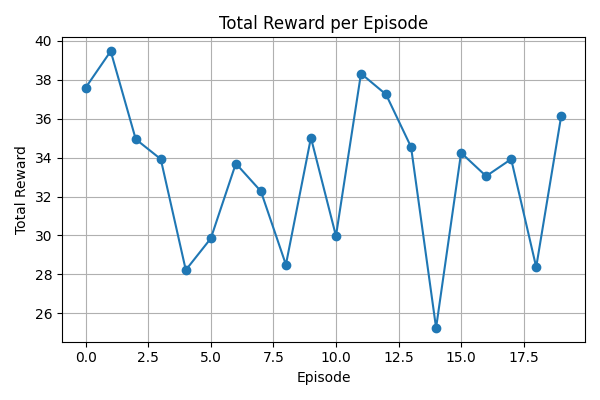
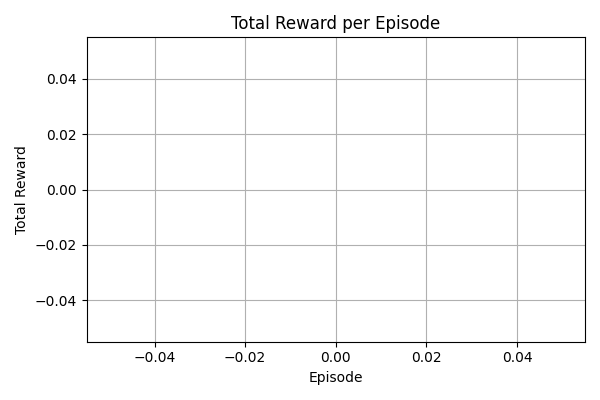
优化交付时间估算逻辑，调整最大时间步数和动态作业到达概率

diff --git a/claude_code/environment.py b/claude_code/environment.py
@@ -30,6 +30,7 @@ class WarehouseEnvironment:
         self.completed_jobs = []
         # 加工完成且配送完成的作业列表
         self.dispatched_jobs = []
+        self.next_job_id = len(case.jobs)  # 初始工件数
         
         # 初始化机器和配送商
         self.machines = []
@@ -186,7 +187,7 @@ class WarehouseEnvironment:
             return  # 第一个时间步不生成动态作业
         
         # 随机决定是否有作业到达
-        arrival_probability = getattr(self.config, 'batch_arrival_probability', 0.15)  # 每个时间步15%概率到达
+        arrival_probability = getattr(self.config, 'batch_arrival_probability', 0.75)  # 每个时间步75%概率到达
         
         if np.random.random() < arrival_probability:
             # 随机决定本次到达的作业数量
@@ -203,11 +204,8 @@ class WarehouseEnvironment:
                 arrived_jobs = []
                 for i in range(batch_size):
                     if self.remaining_dynamic_jobs > 0:
-                        # 生成新的动态作业ID（避免与现有作业重复）
-                        total_existing_jobs = (len(self.available_jobs) + 
-                                            len(self.completed_jobs) + 
-                                            len(self.dispatched_jobs))
-                        new_job_id = total_existing_jobs + i
+                    
+                        new_job_id = self.next_job_id
                         
                         # 生成新作业
                         new_job = self.case._generate_one_job(new_job_id)
@@ -220,6 +218,7 @@ class WarehouseEnvironment:
                         self.available_jobs.append(new_job)
                         arrived_jobs.append(new_job)
                         
+                        self.next_job_id += 1  # 保证每次唯一
                         # 更新计数器
                         self.remaining_dynamic_jobs -= 1
                         self.dynamic_jobs_arrived += 1
@@ -315,15 +314,18 @@ class WarehouseEnvironment:
     
     def _check_termination(self) -> bool:
         """检查是否达到终止条件"""
+        
         # 计算预期的总作业数量
         total_expected_jobs = len(self.initial_jobs) + self.config.num_dynamic_jobs
         
         # 终止条件：
         # 1. 达到最大时间步数，或
         # 2. 所有作业（初始+动态）都已配送完成且没有剩余动态作业
-        return (self.t >= self.config.max_time_steps or 
-                (len(self.dispatched_jobs) >= total_expected_jobs and 
-                self.remaining_dynamic_jobs <= 0))
+        boolean_condition = self.t >= self.config.max_time_steps or (len(self.dispatched_jobs) >= total_expected_jobs and self.remaining_dynamic_jobs <= 0)
+        if boolean_condition:
+            print(f"达到终止条件：{self.t} >= {self.config.max_time_steps} 或 (已配送作业数：{len(self.dispatched_jobs)} >= 预期总作业数：{total_expected_jobs} 且 剩余动态作业数：{self.remaining_dynamic_jobs} <= 0)")
+
+        return boolean_condition
 
 
     def _calculate_reward(self, action) -> float:
@@ -503,6 +505,7 @@ class WarehouseEnvironment:
                 # 获取当前工序
                 if job.current_operation >= len(job.operations):
                     print(f"警告：作业{job.job_id}已无可调度工序，跳过调度。")
+                    continue
                     
                 current_op = job.operations[job.current_operation]
                 if machine_id in current_op.available_machine_ids:

diff --git a/claude_code/case_generator.py b/claude_code/case_generator.py
@@ -175,9 +175,15 @@ class FlexibleJobShopScenario:
                 continue
                 
             """为指定配送商生成交付要求"""
-            min_time = self.config.earliest_delivery_time
-            max_time = self.config.latest_delivery_time
-            
+           # min_time = self.config.earliest_delivery_time
+           # max_time = self.config.latest_delivery_time
+            # 估算所有工件的最短和最长加工+配送时间
+            min_proc = min([sum([min(op.processing_times.values()) for op in job.operations]) for job in self.jobs])
+            max_proc = max([sum([max(op.processing_times.values()) for op in job.operations]) for job in self.jobs])
+            delivery_buffer = 1  # 可调节
+
+            min_time = int(min_proc * 0.1)
+            max_time = int(max_proc * 1.1 + delivery_buffer)
             n_req = np.random.randint(
                     self.config.min_delivery_requirements,
                     self.config.max_delivery_requirements + 1

diff --git a/claude_code/config.py b/claude_code/config.py
@@ -44,7 +44,7 @@ class Config:
     amount_weight: float = 0.6          # 数量权重
     complexity_weight: float = 0.4      # 复杂度权重
 
-    max_time_steps = 500  # 增加时间步数让智能体有足够时间学习
+    max_time_steps = 300  # 增加时间步数让智能体有足够时间学习
     arrival_probability = 0
     max_job_num_limit = 20
     arrival_batch_size = 2
